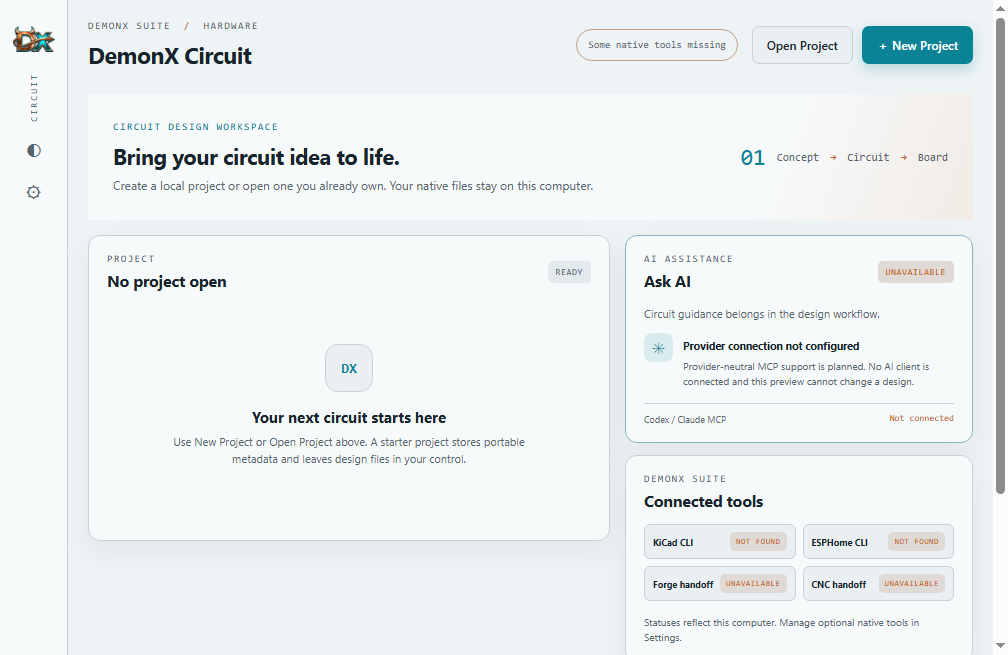
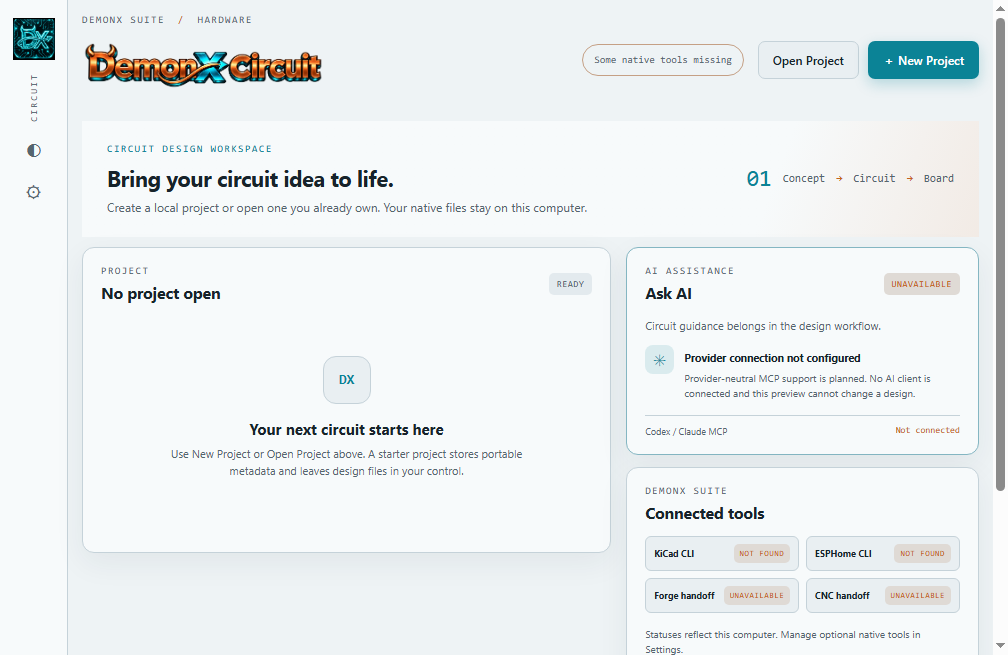
Record branded Windows package acceptance

diff --git a/reports/checkpoint-3/OWNER-ACCEPTANCE.md b/reports/checkpoint-3/OWNER-ACCEPTANCE.md
@@ -1,53 +1,40 @@
-# Checkpoint 3 — packaged Windows owner-acceptance repair
+# Checkpoint 3 — packaged Windows acceptance and official branding
 
-Tested: 2026-10-24 06:05 UTC  
-Branch: `codex/demonx-circuit-foundation`  
-Commit: `693241b08d086bb0365b8245e8a4fbf362478f61`  
-Workflow: [Windows preview run 40068737957](https://github.com/pricklyguy/DemonX-Circuit/actions/runs/40068737957)  
-Runtime: Windows 2022, Node.js 24.19.0, Electron 45.0.0, DemonX Circuit 0.4.0
+Tested: 2026-10-24 16:35 UTC | Branch: `codex/demonx-circuit-foundation` | Build commit: `0f995543fe6f240ec8797e369f1b326688420448` | Workflow: [Windows preview run 40112188110](https://github.com/pricklyguy/DemonX-Circuit/actions/runs/40112188110) (**PASS**)
+Runtime: Windows 2022, Node.js 24.19.0, Electron 45.0.0, DemonX Circuit 0.4.1
 
-## Diagnosis and repair
-
-The first packaged renderer logged:
-
-```text
-[Circuit renderer console] ... Uncaught ReferenceError: exports is not defined
-```
-
-`renderer.ts` was compiled with TypeScript's CommonJS output and loaded as a classic browser script. It threw before its button listeners could register. The preload file existed at the packaged path and the context bridge was separately available. The repair moved shared renderer/preload interfaces into `circuit-api.d.ts`, so the browser renderer compiles without a CommonJS wrapper while the isolated Electron preload stays CommonJS.
-
-Acceptance testing found a second usability issue: a 1280 × 820 window put the rail controls below the hosted runner's 1024 × 768 screen. The default window is now 1120 × 720 and theme/settings sit near the top of the rail. The final test verifies the controls are visible and sends actual CDP mouse events; the report records their hit targets.
-
-## Results
+## Windows package and acceptance results
 
 | Area | Result | Evidence |
 |---|---|---|
-| Extracted portable ZIP starts | **PASS** | Packaged process logged `packaged=true`; `appPath=.../resources/app`; `preloadExists=true`. |
-| Renderer and preload bridge | **PASS** | Packaged page loaded `./dist/renderer.js`; `typeof window.circuit === "object"`. |
-| New Project | **PASS** | Mouse click created a real `project.json` with format `demonx-project` and project ID `dx-mvlzvga6`. |
-| Open Project | **PASS** | A second mouse click reopened the created project and restored its project ID. |
-| Recent Projects | **PASS** | A recent-project mouse click reopened the project; the recent list persisted through restart. |
-| Theme and settings | **PASS** | Rail theme toggle changed dark to light; Settings opened; its theme toggle worked. Light mode persisted after closing and restarting the packaged executable. |
-| Tool availability UI | **PASS** | The runner detected `kicad=null`, `kicadEditor=null`, `esphome=null`; the dashboard displayed KiCad CLI and ESPHome CLI as `NOT FOUND`. |
-| ESPHome generation | **PASS, generation only** | The packaged fixture preview included ESP32-S3 variant, GPIO8 SDA and GPIO10 relay mapping. |
-| Helpful missing-tool errors | **PASS** | Open PCB, Check Circuit, and manufacturing actions explained that KiCad was missing and stated `NOT TESTED`. The ESPHome preview likewise stated CLI compatibility validation was `NOT TESTED`. |
-| Renderer/preload unhandled exceptions | **PASS** | Acceptance report `unhandled: []`; no CDP runtime exceptions or preload errors occurred during startup and tested clicks. |
-| KiCad editor launch | **NOT TESTED** | KiCad desktop editor was not installed on the hosted Windows runner. |
-| Native KiCad ERC/DRC | **NOT TESTED** | KiCad CLI was not installed on the hosted Windows runner. |
-| Gerber/Excellon/STEP export from the packaged UI | **NOT TESTED** | KiCad CLI was not installed on the hosted Windows runner. The independent native KiCad CI results remain recorded in `CHECKPOINT-3-RESULTS.md`; this run did not modify those fixture files. |
-| ESPHome CLI compatibility validation | **NOT TESTED** | ESPHome CLI was not installed on the hosted Windows runner; only the generated preview was checked. |
-| Owner's Windows computer | **NOT TESTED** | Acceptance ran on GitHub-hosted Windows 2022. The managed development host blocks Electron sandbox access to workspace folders through inherited AppContainer ACLs; no host-wide configuration or permissions were changed. |
+| Extracted portable ZIP launches | **PASS** | Windows 2022 extracted the uploaded ZIP and launched `DemonX Circuit.exe` from `resources/app`. |
+| Official Circuit wordmark | **PASS** | Packaged renderer loaded `./assets/DemonX Circuit.png` at its original 2172×724 dimensions with the expected alt text. The PNG is RGBA and copied byte-for-byte from the repository artwork. |
+| Circuit DX icon and packaged window icons | **PASS** | Renderer loaded the supplied 256×256 Circuit board icon. Packaged app resources include the supplied Windows `.ico` and Linux 512×512 PNG. `BrowserWindow` selects ICO on Windows and PNG on Linux. |
+| New Project | **PASS** | Real mouse click created `project.json` in an isolated temporary project root. |
+| Open Project | **PASS** | Real mouse click reopened the created project and restored its project ID. |
+| Recent Projects | **PASS** | Real mouse click reopened the project from the recent list; the list persisted through app restart. The test scrolls lower dashboard targets into view and verifies each click lands on its intended control. |
+| Settings and theme | **PASS** | Rail and Settings theme controls changed themes; the selected theme persisted after closing and relaunching the packaged executable. |
+| Native-tool availability | **PASS** | The runner reported KiCad CLI/editor and ESPHome CLI absent, and the dashboard showed `NOT FOUND`. |
+| Missing-tool responses | **PASS** | KiCad editor, ERC/DRC, manufacturing actions, and ESPHome CLI validation report `NOT TESTED` with actionable missing-tool explanations. |
+| ESPHome preview generation | **PASS** | The packaged fixture generated YAML containing ESP32-S3, GPIO8 SDA, and GPIO10 relay mapping. |
+| Unhandled renderer/preload exceptions | **PASS** | Packaged acceptance reported `unhandled: []`. |
+| KiCad editor / native ERC/DRC / Gerber, Excellon, STEP from this package | **NOT TESTED** | KiCad was not installed on the hosted Windows runner. The separate native KiCad fixture results remain in `CHECKPOINT-3-RESULTS.md`. |
+| ESPHome CLI compatibility validation | **NOT TESTED** | ESPHome CLI was not installed on the hosted Windows runner; this acceptance covered generation and the explicit not-installed status only. |
+| Owner's Windows computer | **NOT TESTED** | Packaged acceptance was performed on GitHub-hosted Windows 2022. |
 
-The detailed machine-readable interaction report and screenshots are in [acceptance artifact 12550323018](https://github.com/pricklyguy/DemonX-Circuit/actions/runs/40068737957/artifacts/12550323018). The runnable Windows package is [artifact 12549989086](https://github.com/pricklyguy/DemonX-Circuit/actions/runs/40068737957/artifacts/12549989086) (273,949,939 bytes; 30-day retention). Extract the ZIP and launch `DemonX Circuit.exe`. KiCad 10.0.7 and ESPHome CLI must be installed separately for their native actions.
+## Artifacts
 
-## Screenshots from the packaged Electron window
+- Runnable portable Windows ZIP: [download artifact 12567246177](https://github.com/pricklyguy/DemonX-Circuit/actions/runs/40112188110/artifacts/12567246177) (275,587,151 bytes; expires 2026-11-23). Extract and launch `DemonX Circuit.exe`. KiCad 10.0.7 and ESPHome CLI remain separate prerequisites for their native actions.
+- Machine-readable click report and screenshots: [download acceptance artifact 12567201405](https://github.com/pricklyguy/DemonX-Circuit/actions/runs/40112188110/artifacts/12567201405).
 
-![DemonX Circuit 0.4.0 dark mode](desktop-preview.png)
+The images below are static still captures of the packaged Electron application's actual renderer. The ZIP is the interactive desktop build; no interactive browser-only demo is provided.
 
-![DemonX Circuit 0.4.0 light mode](desktop-preview-light.png)
+## Packaged Electron screenshots
 
-## Current preview scope
+![DemonX Circuit 0.4.1 dark theme, captured from packaged Windows Electron application](desktop-preview.png)
 
-The start screen has one New Project and one Open Project action, persisted recent projects, accessible settings and theme controls, clear tool-availability labels, a primary AI assistance panel marked unavailable, and Forge/CNC handoffs marked unavailable. Project actions continue to use the packaged fixture and existing narrow IPC. No schematic or PCB canvas was rebuilt.
+![DemonX Circuit 0.4.1 light theme, captured from packaged Windows Electron application](desktop-preview-light.png)
 
-Development launch on Windows: `npm ci`, then `npm start` from the repository root. The app requires no automatic installer. The next step is an owner-led launch/usability check on the owner's Windows computer; native KiCad and ESPHome operations should only be marked tested when those installed tools actually run.
+## Scope
+
+The existing project dashboard and workflows were preserved; no EDA or manufacturing feature work was added. The Circuit wordmark and DX art are original supplied assets; dark/light interface colors provide contrast without recoloring or cropping them. Other Suite artwork remains under the repository `assets/` folder and is not loaded by the UI. AI/MCP and Forge/CNC remain visibly unavailable. For development on Windows, use Node.js 24.x and run `npm ci` followed by `npm start` from the repository root.
